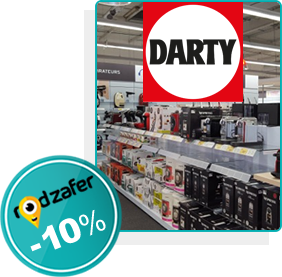
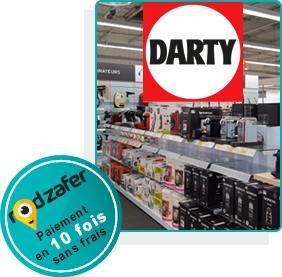
mise à jour offres exclusives

Changed region(s): [[0.0, 0.5487, 0.4539, 1.0], [0.9929, 0.8087, 1.0, 0.8375], [0.9929, 0.0, 1.0, 0.0289]]

diff --git a/index.html b/index.html
@@ -131,7 +131,7 @@
           </li>
           <li>
             <span class="logo_partenaire">
-              <span class="content_image_liste_offre"><img src="images/image_list_darty_v2.png" class="img-responsive">
+              <span class="content_image_liste_offre"><img src="images/image_list_darty_v2.jpg" class="img-responsive">
                 <span class="content_text_list_offre">
                   <span>
                     <a href="#telecharger_appli">Téléchargez Rodzafer<br/> pour profiter de l’offre</a></span>
